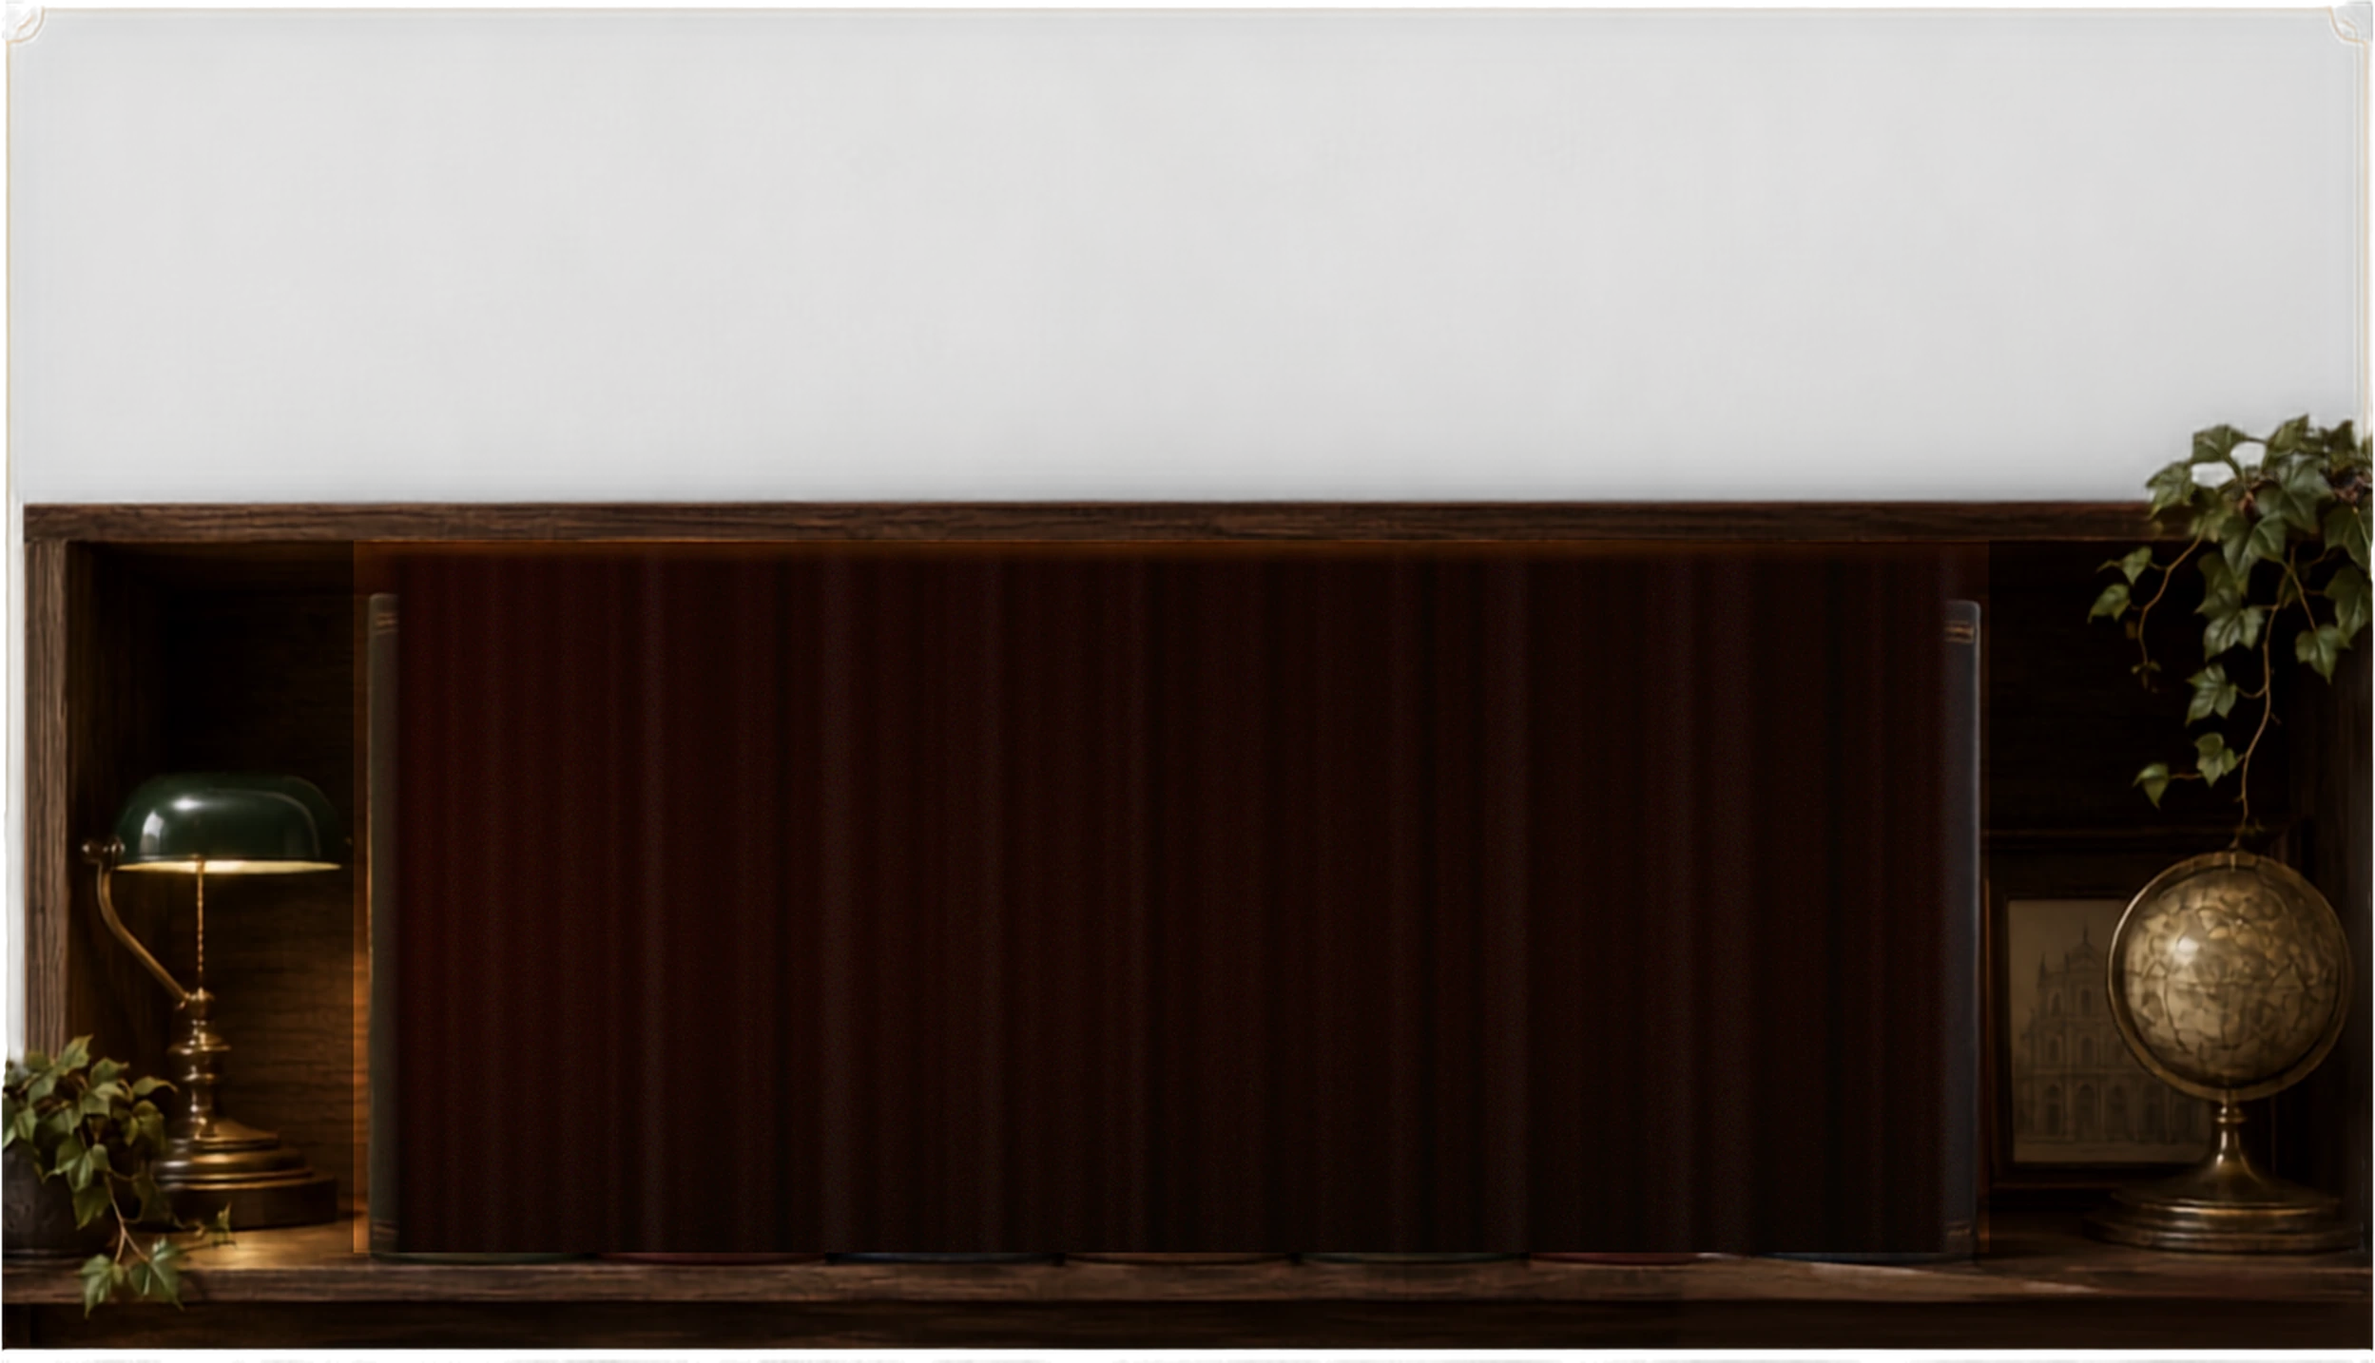
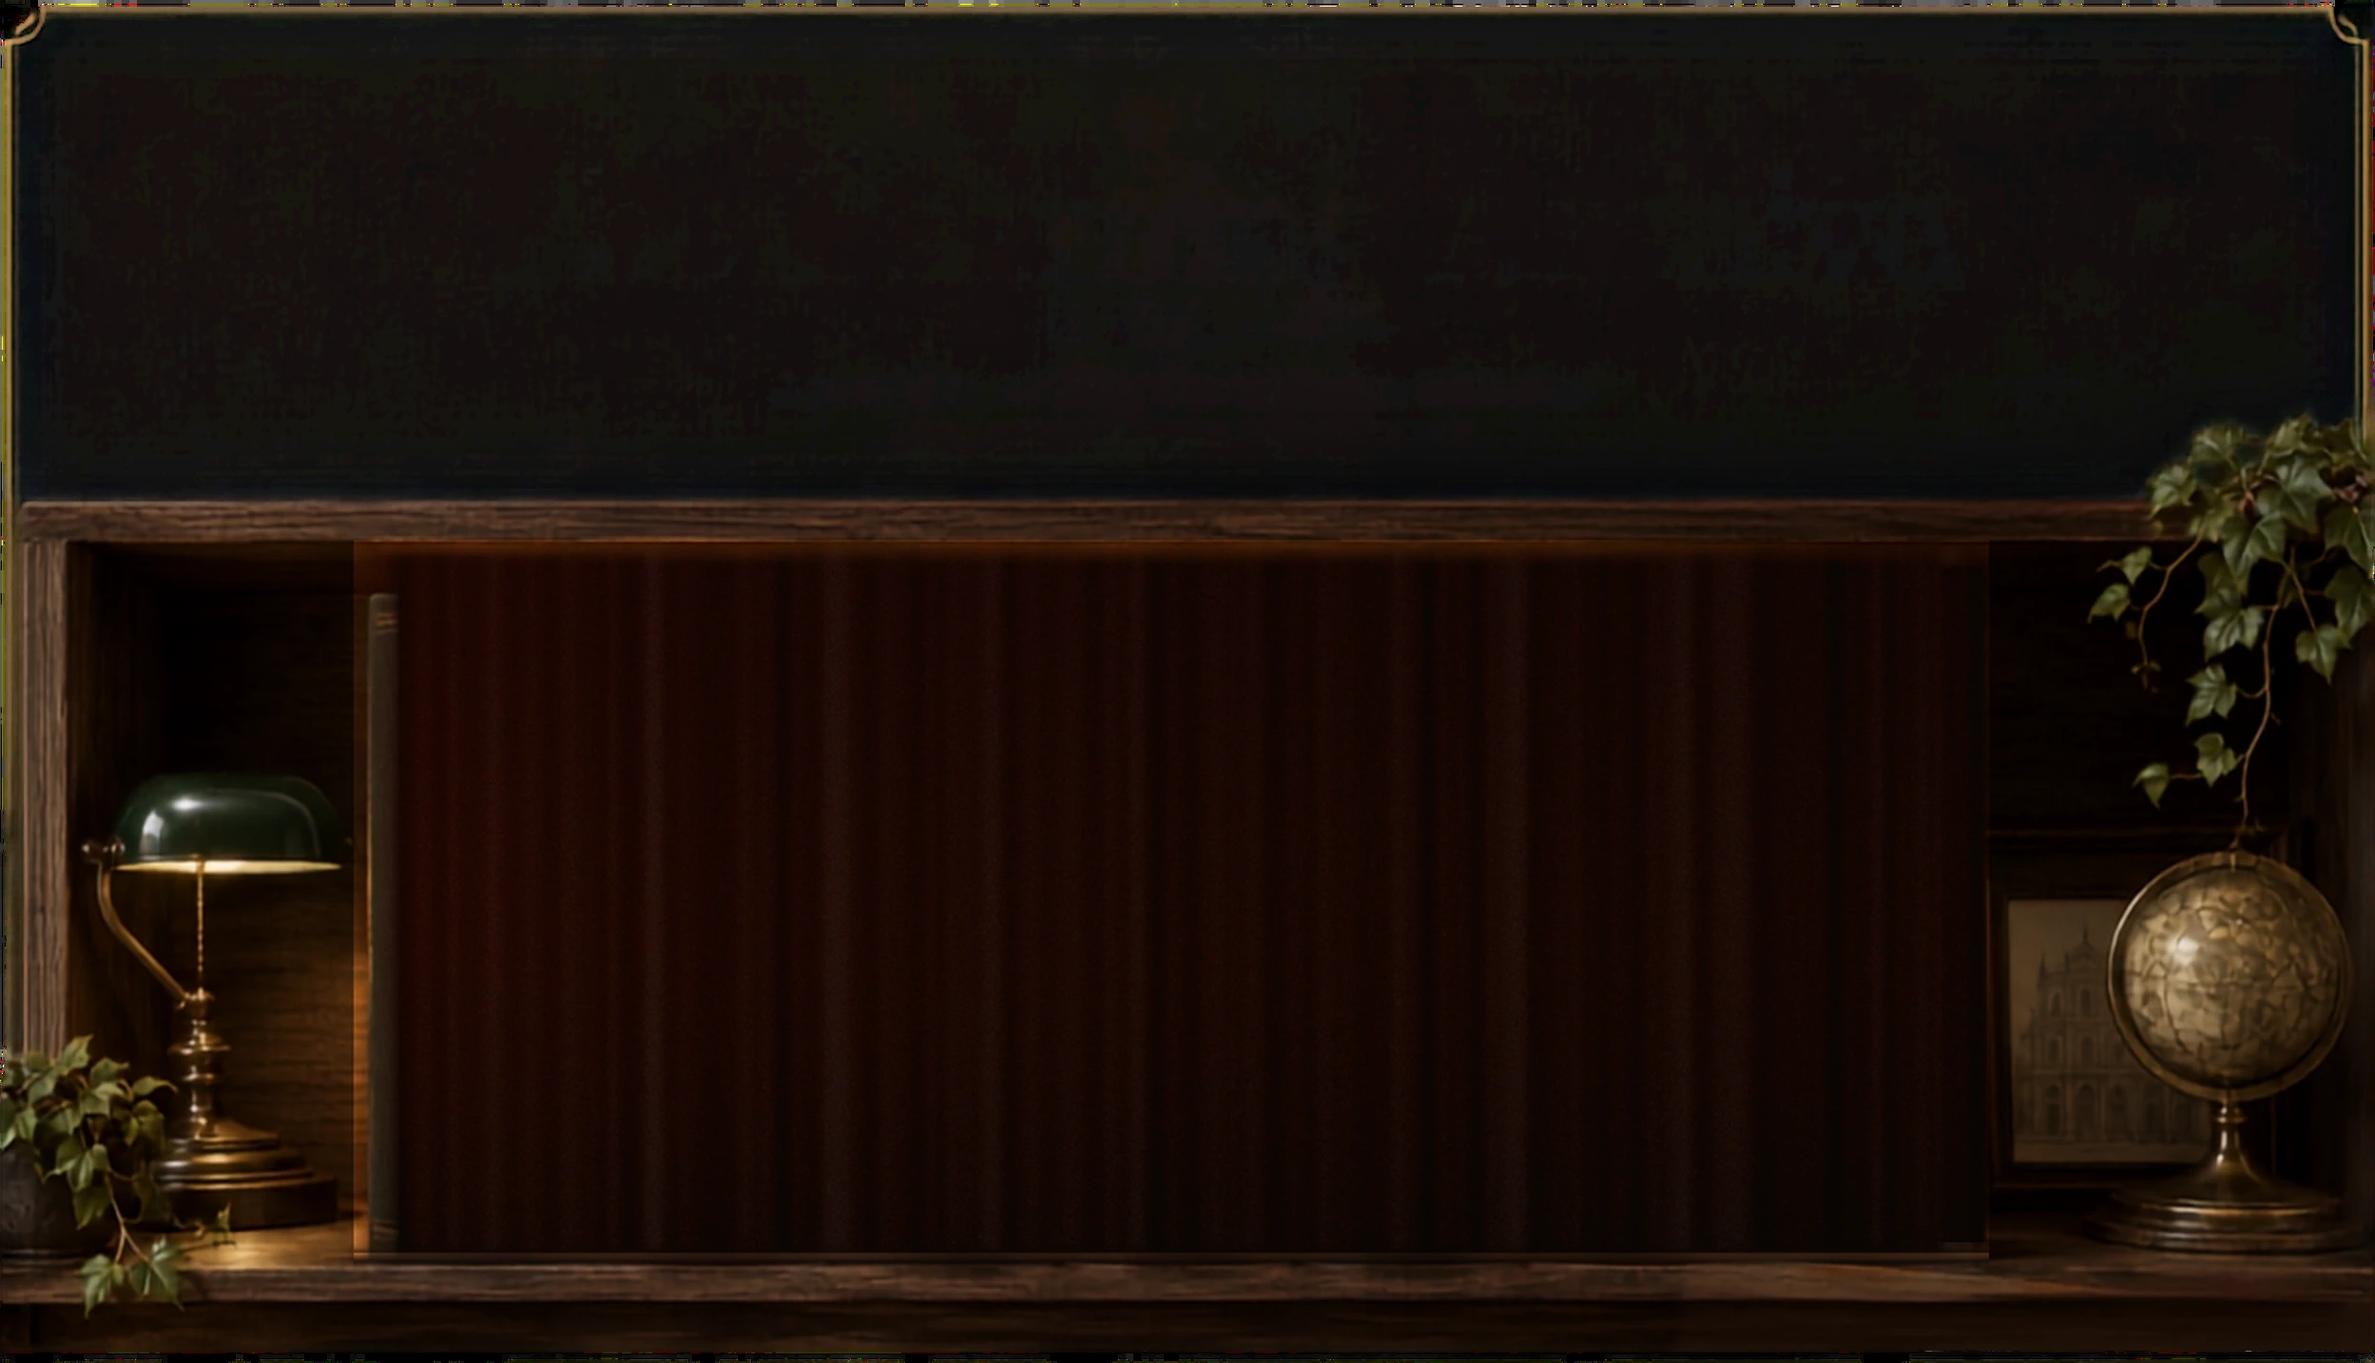
Make the process rail one continuous run, and clean the alcove
The rail on Approach is a timeline, so it has to read as one line. Each stage
was only inking its own height, which left the gap between stages blank: a lit
segment floating between two dead gaps reads as a broken line, not as progress.
Each stage's length of line now runs to the next node, gap included, and
resting on a stage inks the line from the first stage down to that one and
fills every node it passes. `:has(~ .rail-step:hover)` is what reaches back up
the list.

Two traces of the original books survived the alcove synthesis, and both only
showed once a volume was pulled out of the row: the feet of the originals, as
coloured crescents along the bottom of the panel, and the pale edge of the
seventh volume at the right-hand end, which is exactly where volume VI stands.
tools/patch_alcove.py repairs both. The junction at the foot of the panel is
rebuilt per column from the panel above and the board below, with the contact
shadow taken as the median across the whole opening, so the leftover feet are
outvoted by the clean run of it. The untouched original is kept outside public/
so it never ships, and re-running repairs that rather than a repair.

diff --git a/src/components/approach/ProcessList.tsx b/src/components/approach/ProcessList.tsx
@@ -13,36 +13,31 @@ const STEPS = [
  * The five stages, centred on a slip of aged paper, set as the deck sets
  * them, with the title over its line rather than beside a rail.
  *
- * The rail runs down the left of the slip as a dotted rule in the paper's own
- * colour. Resting on a stage inks that stage's length of it maroon and fills
- * its node, so the eye is told where it is on the run without the text moving.
+ * The rail is a timeline, so it has to read as one continuous run. Resting on
+ * a stage inks the line from the first stage all the way down to that one and
+ * fills every node it passes, rather than lighting one stage's own length on
+ * its own: a lit segment floating between two unlit gaps looks like a broken
+ * line, not progress along a path. The ink is drawn by `.rail-*` in
+ * globals.css, which needs `:has()` to reach back up the list.
  */
 export default function ProcessList() {
   return (
     <div className="slip relative mt-[0.9em] py-[1.3em] pl-[2.1em] pr-[1.2em]">
-      {/* the dotted rail, behind the nodes */}
-      <span
-        aria-hidden
-        className="absolute bottom-[1.9em] left-[1.05em] top-[1.9em] w-px"
-        style={{
-          backgroundImage:
-            "repeating-linear-gradient(to bottom, rgba(122,90,40,0.55) 0 2px, transparent 2px 6px)",
-        }}
-      />
+      <ol className="rail relative space-y-[0.95em] text-center">
+        {STEPS.map((s, i) => (
+          <li key={s.title} className="rail-step relative">
+            {/*
+              This stage's length of the line runs to the *next* node, gap
+              included, so the run never breaks between stages. The last one
+              stops at its own node, because the path ends there.
+            */}
+            {i < STEPS.length - 1 && (
+              <span aria-hidden className="rail-track" />
+            )}
+            <span aria-hidden className="rail-ink" />
+            <span aria-hidden className="rail-node" />
 
-      <ol className="relative space-y-[0.95em] text-center">
-        {STEPS.map((s) => (
-          <li key={s.title} className="group relative">
-            {/* this stage's length of the rail, inked in on hover */}
-            <span
-              aria-hidden
-              className="absolute -left-[1.05em] top-0 h-full w-px origin-top scale-y-0 bg-maroon/75 transition-transform duration-[600ms] ease-[var(--ease-vellum)] group-hover:scale-y-100"
-            />
-            <span
-              aria-hidden
-              className="absolute -left-[1.05em] top-[0.45em] block h-[0.5em] w-[0.5em] -translate-x-[calc(50%-0.5px)] rotate-45 border border-[#7a5a28]/80 bg-[#f3e7cc] transition-colors duration-500 group-hover:border-maroon group-hover:bg-maroon"
-            />
-            <span className="pg-sub block !text-[calc(var(--ps)*0.0205)] transition-colors duration-500 group-hover:text-maroon">
+            <span className="pg-sub rail-title block !text-[calc(var(--ps)*0.0205)]">
               {s.title}
             </span>
             <span className="pg-body mt-[0.15em] block leading-[1.3]">

diff --git a/src/app/globals.css b/src/app/globals.css
@@ -342,3 +342,82 @@ body {
       0 8px 18px -10px rgb(60 40 10 / 0.5);
   }
 }
+
+/* ── the process rail ─────────────────────────────────────────────────
+   A timeline, so it has to read as one continuous run. The dotted track
+   carries past every stage and through the gaps between them; resting on a
+   stage inks the line from the first stage down to that one and fills every
+   node it passes. `:has(~ .rail-step:hover)` is what reaches back up the
+   list: without it a stage can only light its own length, which shows as a
+   lit segment floating between two unlit gaps rather than as progress. */
+@layer components {
+  .rail {
+    --rail-x: -1.05em;
+    --rail-gap: 0.95em;
+  }
+
+  /* the unlit track, running to the next node so the gap is covered */
+  .rail-track,
+  .rail-ink {
+    position: absolute;
+    left: var(--rail-x);
+    top: 0.7em;
+    width: 1px;
+    height: calc(100% - 0.7em + var(--rail-gap));
+  }
+
+  .rail-track {
+    background-image: repeating-linear-gradient(
+      to bottom,
+      rgb(122 90 40 / 0.55) 0 2px,
+      transparent 2px 6px
+    );
+  }
+
+  .rail-ink {
+    background: color-mix(in srgb, var(--color-maroon) 80%, transparent);
+    transform: scaleY(0);
+    transform-origin: top;
+    transition: transform 520ms var(--ease-vellum);
+  }
+
+  /* every stage above the one being rested on is already behind us */
+  .rail-step:has(~ .rail-step:hover) .rail-ink {
+    transform: scaleY(1);
+  }
+
+  .rail-node {
+    position: absolute;
+    left: var(--rail-x);
+    top: 0.45em;
+    display: block;
+    width: 0.5em;
+    height: 0.5em;
+    transform: translateX(calc(-50% + 0.5px)) rotate(45deg);
+    border: 1px solid rgb(122 90 40 / 0.8);
+    background: #f3e7cc;
+    transition:
+      background-color 420ms ease,
+      border-color 420ms ease;
+  }
+
+  .rail-step:hover .rail-node,
+  .rail-step:has(~ .rail-step:hover) .rail-node {
+    border-color: var(--color-maroon);
+    background: var(--color-maroon);
+  }
+
+  .rail-title {
+    transition: color 420ms ease;
+  }
+
+  .rail-step:hover .rail-title {
+    color: var(--color-maroon);
+  }
+
+  @media (prefers-reduced-motion: reduce) {
+    .rail-ink {
+      transition: none;
+    }
+  }
+}

diff --git a/tools/patch_alcove.py b/tools/patch_alcove.py
@@ -1,0 +1,155 @@
+"""Clean two leftovers out of the synthesised alcove.
+
+`build_shelf.py` lifts every volume out of the shelf photograph and paints an
+empty back panel in behind them. Two traces of the original books survived it,
+and both only become visible once a volume is pulled out of the row:
+
+  · the feet of the original books, as coloured crescents sitting on the board
+    along the bottom of the panel;
+  · the pale edge of the seventh volume, at the right-hand end of the opening,
+    which is exactly where volume VI stands.
+
+Both are repaired the same way: a clean piece of the panel is sampled and
+carried over the damage, feathered at the seams so there is no visible join.
+The panel has a vertical gradient and almost no horizontal one, so the bottom
+is repaired by carrying rows *down* and the right end by carrying columns
+*across*, which keeps the lighting intact in each case.
+
+    python tools/patch_alcove.py
+    python tools/patch_alcove.py --check   # writes before/after crops only
+"""
+
+from __future__ import annotations
+
+import argparse
+import pathlib
+
+import numpy as np
+from PIL import Image
+
+ROOT = pathlib.Path(__file__).resolve().parent.parent
+ALCOVE = ROOT / "public" / "assets" / "shelf" / "alcove.webp"
+
+# The shelf opening, as fractions of the photograph. Kept in step with
+# SHELF_OPENING in src/data/volumes.ts.
+OPEN_L, OPEN_R = 0.14892, 0.83747
+PANEL_TOP = 0.410
+
+# The junction where the panel meets the board. The original books' feet
+# survive as a grey band sitting across it, which reads as blue against the
+# warm wood the moment a volume is pulled out of the row.
+JOIN_TOP, JOIN_BOT = 0.9115, 0.9320
+ABOVE = (0.9020, 0.9110)   # clean panel
+BELOW = (0.9325, 0.9400)   # clean board
+
+# The seventh volume's edge, and the clean panel to its left.
+EDGE_L, EDGE_R = 0.8130, 0.8395
+SRC_L, SRC_R = 0.7655, 0.7920
+
+FEATHER = 14  # pixels of cross-fade at every seam
+
+
+def ramp(n: int) -> np.ndarray:
+    """A smooth 0 to 1 over n samples."""
+    t = np.linspace(0.0, 1.0, n)
+    return (t * t * (3 - 2 * t)).astype(np.float32)
+
+
+def blend(dst: np.ndarray, src: np.ndarray, alpha: np.ndarray) -> np.ndarray:
+    return dst * (1 - alpha) + src * alpha
+
+
+def running_median(row: np.ndarray, win: int = 61) -> np.ndarray:
+    """Median along x, so a narrow dark notch cannot poison the anchor it is
+    sampled into while the wood's broad gradient is kept."""
+    pad = win // 2
+    padded = np.pad(row, ((pad, pad), (0, 0)), mode="edge")
+    idx = np.arange(win)[None, :] + np.arange(row.shape[0])[:, None]
+    return np.median(padded[idx], axis=1).astype(np.float32)
+
+
+def repair(a: np.ndarray) -> np.ndarray:
+    h, w, _ = a.shape
+    out = a.copy()
+    rng = np.random.default_rng(20260913)
+
+    # ── the junction, and the book feet sitting on it ───────────────
+    x0, x1 = int(OPEN_L * w), int(OPEN_R * w)
+    jy0, jy1 = int(JOIN_TOP * h), int(JOIN_BOT * h)
+    n = jy1 - jy0
+
+    # Each column keeps its own panel above and its own board below, so the
+    # grain of the wood carries straight through the repair.
+    top = running_median(a[int(ABOVE[0] * h) : int(ABOVE[1] * h), x0:x1].mean(0))
+    bot = running_median(a[int(BELOW[0] * h) : int(BELOW[1] * h), x0:x1].mean(0))
+    t = ramp(n)[:, None, None]
+    lerp = top[None] * (1 - t) + bot[None] * t
+
+    # The contact shadow is taken from the band itself, as the median across
+    # the whole opening, so the leftover feet are outvoted by the clean run.
+    band = a[jy0:jy1, x0:x1]
+    med = np.median(band.mean(2), axis=1)
+    ref = np.median(lerp.mean(2), axis=1)
+    shadow = (med / np.maximum(ref, 1e-3)).astype(np.float32)[:, None, None]
+    filled = lerp * shadow
+    filled += rng.normal(0, 1.0, filled.shape).astype(np.float32)
+
+    alpha = np.ones((n, x1 - x0, 1), np.float32)
+    alpha[:FEATHER] = ramp(FEATHER)[:, None, None]
+    alpha[-FEATHER:] = ramp(FEATHER)[::-1][:, None, None]
+    out[jy0:jy1, x0:x1] = blend(out[jy0:jy1, x0:x1], filled, alpha)
+
+    # ── the seventh volume's edge ────────────────────────────────────
+    ex0, ex1 = int(EDGE_L * w), int(EDGE_R * w)
+    sx0, sx1 = int(SRC_L * w), int(SRC_R * w)
+    py0, py1 = int(PANEL_TOP * h), jy0
+
+    width = ex1 - ex0
+    patch = a[py0:py1, sx0 : sx0 + width][:, ::-1]  # mirrored, so it does not repeat
+    patch = patch + rng.normal(0, 1.1, patch.shape).astype(np.float32)
+
+    alpha = np.ones((py1 - py0, ex1 - ex0, 1), np.float32)
+    alpha[:, :FEATHER] = ramp(FEATHER)[None, :, None]
+    alpha[:, -FEATHER:] = ramp(FEATHER)[::-1][None, :, None]
+    alpha[:FEATHER] *= ramp(FEATHER)[:, None, None]
+    out[py0:py1, ex0:ex1] = blend(out[py0:py1, ex0:ex1], patch, alpha)
+
+    return np.clip(out, 0, 255)
+
+
+def crops(img: Image.Image, tag: str) -> None:
+    w, h = img.size
+    img.crop((int(0.10 * w), int(0.85 * h), int(0.90 * w), int(0.96 * h))).resize(
+        (1600, int(1600 * (0.11 * h) / (0.80 * w)))
+    ).save(ROOT / f"../_alcove_{tag}_bottom.png")
+    img.crop((int(0.74 * w), int(0.40 * h), int(0.88 * w), int(0.95 * h))).save(
+        ROOT / f"../_alcove_{tag}_right.png"
+    )
+
+
+def main() -> None:
+    ap = argparse.ArgumentParser()
+    ap.add_argument("--check", action="store_true", help="write crops, do not save")
+    args = ap.parse_args()
+
+    # Re-running has to repair the original, never a repair of a repair.
+    backup = ROOT / "tools" / "alcove.orig.webp"
+    before = Image.open(backup if backup.exists() else ALCOVE).convert("RGB")
+    crops(before, "before")
+
+    fixed = Image.fromarray(repair(np.asarray(before).astype(np.float32)).astype(np.uint8))
+    crops(fixed, "after")
+
+    if args.check:
+        print("crops written, alcove left alone")
+        return
+
+    if not backup.exists():
+        before.save(backup, "WEBP", quality=95, method=6)
+        print("original kept at", backup.name)
+    fixed.save(ALCOVE, "WEBP", quality=95, method=6)
+    print("patched", ALCOVE, fixed.size)
+
+
+if __name__ == "__main__":
+    main()

diff --git a/README.md b/README.md
@@ -71,6 +71,16 @@ of objects:
 Positions live in `src/data/volumes.ts` (`slot`, and `SHELF_OPENING`) as
 fractions of the photograph, so the whole assembly scales as a single object.
 
+Two traces of the original books survived the synthesis, and both only showed
+once a volume was pulled out of the row: the feet of the originals, as coloured
+crescents along the bottom of the panel, and the pale edge of the seventh
+volume at the right-hand end, which is exactly where volume VI stands.
+`tools/patch_alcove.py` repairs both and keeps the untouched original at
+`tools/alcove.orig.webp`, so it can be re-run without repairing a repair. The
+junction at the foot of the panel is rebuilt per column, from the panel above
+and the board below with the contact shadow taken as the median across the
+whole opening, so the leftover feet are outvoted by the clean run of it.
+
 `tools/build_shelf.py` regenerates all of it from a source photograph, run it
 against a higher-resolution export and the site picks up the sharper assets
 with no code change:
@@ -260,6 +270,12 @@ Last swept clean at 320×568, 360×740, 390×844, 430×932, 768×1024, 1024×768
 
 ## Details worth keeping
 
+- The process rail on Approach is a timeline, so it reads as one continuous
+  run: resting on a stage inks the line from the first stage down to that one
+  and fills every node it passes. Each stage's length of line runs to the
+  *next* node, gap included, and `:has(~ .rail-step:hover)` reaches back up the
+  list. A stage that can only light its own length shows as a lit segment
+  floating between two unlit gaps, which reads as a broken line.
 - `prefers-reduced-motion` disables the dust field and the page turn, and
   collapses the entrance animations.
 - Nothing drifts or sways: every object is fixed in its scene. There is no
